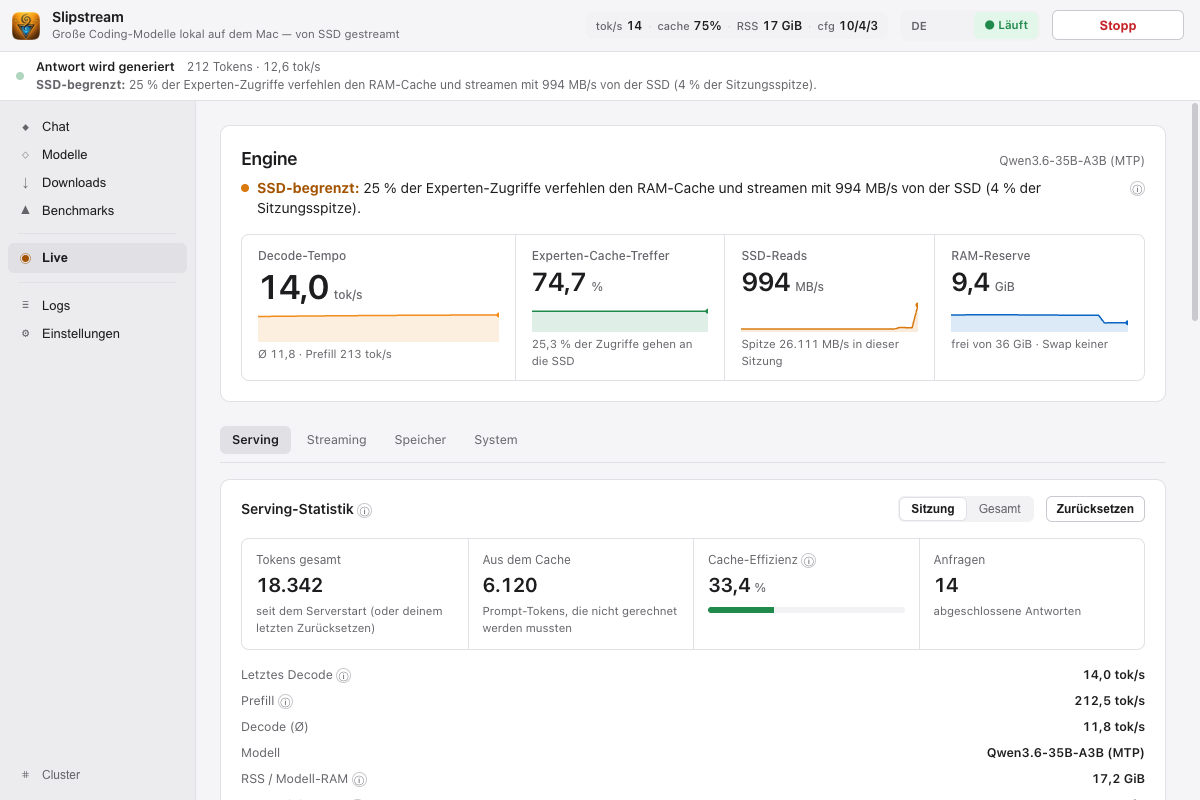
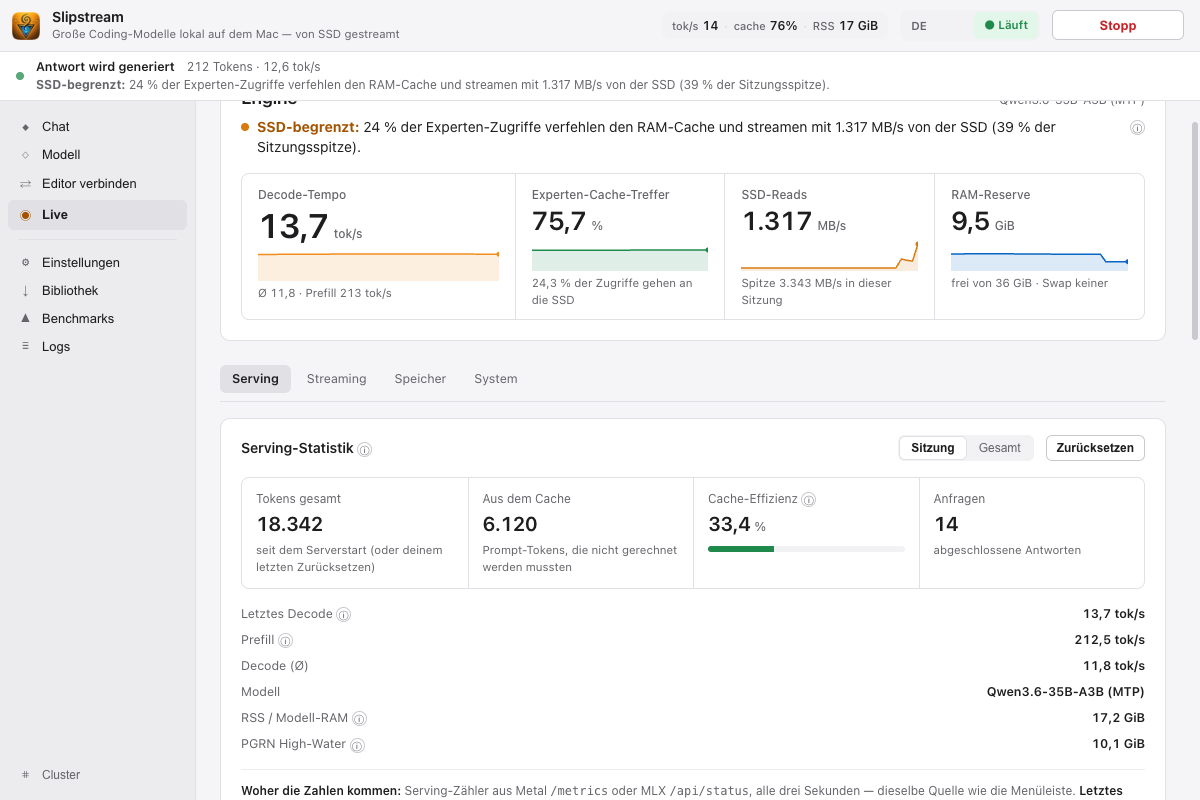
docs(app): first-run journey review with before/after walk screenshots
JOURNEY.md records the before walk (10 actions, 3 forced decisions, 2 dead
ends, duplicate controls, jargon list) and the after walk (4 clicks), plus
what moved where. Screenshots: journey/before-*, journey/after-{en,de}-*.

diff --git a/app/ui-review/JOURNEY.md b/app/ui-review/JOURNEY.md
@@ -1,0 +1,73 @@
+# First-run journey review
+
+**Goal of the user:** "I have a Mac. I want a fast local coding model running and connected to my editor."
+
+Walked with Playwright against `app/dist` and a stateful `__TAURI__` stub. The stub simulates a fresh
+Mac: nothing downloaded, download → convert → start all succeed. 1200×800, English. Screenshots are
+in `journey/before-*.png` and `journey/after-{en,de}-*.png`.
+
+## Before: 10 actions, 3 forced decisions, 2 dead ends
+
+| # | What the user does | Notes |
+|---|---|---|
+| 1 | Opens the app on **Chat**. Clicks step 1, "Choose model folder". | A folder picker opens before any model has been chosen. A default (`~/Modelle`) exists, but the user is still asked a file-system question first (**decision 1**). |
+| 2 | Confirms the folder, then lands on **Models**. | |
+| 3 | Picks a model from 13 entries such as "Qwen3.6-35B-A3B (MTP)" or "Laguna S 2.1 (118B-A8B, DFlash)". | **Decision 2.** The names carry parameter counts and speculative-decoding brands. |
+| 4 | Picks a quality such as "Q4_K_XL · fast (default)". | **Decision 3.** The quant names are jargon. |
+| — | Looks for a download button on Models. There is none. The badge says "not loaded" and the Start button reads "Model not ready" and is **disabled**. | **Dead end 1.** Nothing says where to go next. |
+| 5 | Finds the **Downloads** tab, which reads "Fetch the GGUF, then convert it into the streamable PGRN format". | |
+| 6 | Clicks **Download** and waits several minutes. | |
+| 7 | Comes back and clicks **Convert**, then waits again. | **Dead end 2.** Download does not continue into convert, so the user has to remember a second step whose name ("convert to PGRN") means nothing to them. |
+| 8 | Clicks **Start** (top right). | Cache, context and I/O stay at the HTML defaults (10 GiB / 40k / 4) unless the user finds "Apply best" in Settings. |
+| 9 | Opens **Settings** and scrolls about 1,400 px, past runtime check, backend, MLX, recommendation, cache, context, MTP, compact, grammar drafts, P2P and SSD streaming. | "Connect coding agent" is the tenth block on a 2,300 px page. |
+| 10 | Clicks "Patch in" (Kilo/OpenCode) or "Copy config". | The confirmation was hard-coded German ("gepatcht … neu starten") even in English. |
+
+**Tabs visited:** Chat → Models → Downloads → (topbar) → Settings.
+
+### Places where two controls do the same thing
+- Start in the top bar **and** "Start server" as journey step 2.
+- Models folder on Models, the GGUF folder and PGRN path under "Source & location", **and** path overrides in Settings.
+- Thinking in the chat composer **and** in Settings. Tools in the composer **and** "Enable tools" in Settings.
+- "Enable P2P" on Cluster **and** in Settings.
+- The "Models folder → Backend Auto → Start" hint in the top bar **and** again in Settings.
+- Expected speed on Models **and** the recommendation in Settings.
+- Three presets side by side (Apply best / Metal Peak / Good tokens) with no explanation of the difference.
+- A "Send" prompt on Benchmarks besides the Chat composer.
+
+### Terms a normal developer would not know
+GGUF, **PGRN**, "convert", **sidecar**, experts.pgrn, MLX / oMLX, Metal, "Backend Auto (hybrid)", MTP,
+DFlash, Q4_K_XL / UD-Q5_K_XL, A3B / A12B, **I/O threads**, Compact (slots), Grammar drafts, residency /
+mlock / keep-hot, L3 peer, MCP, KV, RSS, PGRN high-water, prefill / decode, "cfg 10/4/3" in the top bar,
+"cold_io", "io16".
+
+## After: 4 clicks, 0 forced decisions, no dead ends
+
+| # | What the user does | What the app does |
+|---|---|---|
+| 1 | Clicks step 1, "Set up a model", on Chat, or the top-right button, which now reads **"Set up model…"** and is never disabled. | Opens **Model** with the recommended model and quality already selected and focuses one button: **"Download & prepare · ~21 GiB"**. |
+| 2 | Clicks **Download & prepare**. | Downloads, then starts the one-time SSD-streaming preparation (convert) by itself once the file is complete. One progress area and one status line. The button reads **Cancel** while busy. |
+| — | Waits. No click needed. | The button turns into **Start**, and so does the top-right button. |
+| 3 | Clicks **Start**. | If the user has not tuned by hand, the cache, context and I/O recommendation computed for this Mac is applied automatically. Lookahead prefetch is on by default. The button turns into **"Connect your editor →"**. |
+| 4 | Clicks **Connect your editor →**, then clicks the editor's button ("Patch in" for Kilo/OpenCode, or "Copy config"). | **Connect editor** shows "The model is running. Your editor can connect now", the base URL, the model and the key. Step 3 on Chat gets a check mark. |
+
+Counting the editor's own button, that is 4–5 clicks on 2 screens (Model → Connect editor), down from 10 actions over 4 screens.
+
+## What moved where (nothing removed; every id and `invoke()` call kept)
+
+- **Nav:** Chat · **Model** · **Connect editor** (new) · Live, then a separator, then Settings · Library (was Downloads) · Benchmarks · Logs, with Cluster soft-hidden at the bottom.
+- **Model tab:** status, progress (`dlStatus`/`dlBar`/`dlNote`) and the resume row moved here from Downloads. A new `#prepareBtn` drives the whole flow by clicking the original `#dlBtn` / `#convBtn` / `#dlCancel`. Those buttons live on under "Manual steps". The models folder and the four path fields live under "Where models are stored".
+- **Library tab:** now only the list of installed models.
+- **Connect editor tab:** the agent card (Base URL / Model / API key / one-click patches) moved from Settings, with a running / not-running line on top. Codebase indexing is a collapsed "optional" block underneath.
+- **Settings:** shows only "Tuned for your Mac" (Apply best; applied automatically until you change something). Everything else is under one **Advanced engine settings** disclosure: backend, path overrides, tools, MLX options, Metal Peak / Good tokens presets, cache, context, MTP, thinking, compact, grammar drafts, SSD streaming (I/O threads, mirror, buffered reads, predictive prefetch, **lookahead**, **Turbo**). The runtime check is a collapsed "System check" that opens itself when something is not ready.
+- **Top bar:** the cryptic `cfg 10/4/3` readout is hidden (`#obsCfg` kept), and the hint reads "Set up a model, then Start".
+- **Engine options:**
+  - **Lookahead prefetch** is an on/off switch, **on by default**, and sends `pgrn_lookahead: 1` (0 when off). The copy uses the measured "lossless, 29–33 % faster decoding at 4–8 GiB cache".
+  - **Turbo (experimental)** is off by default, with a 0–0.10 slider and a warning that its quality cost is not measured yet.
+- **Copy:** "convert → PGRN" is now "prepare for SSD streaming", and statuses are plain sentences ("Not downloaded yet.", "Downloaded. One step left…", "Ready to start."). The agent confirmations are translated (EN/DE).
+
+## Still open
+
+- Choosing a model is still a list of 13 technical names. The default is sensible, but a short "recommended for your Mac" label (or hiding XL models on small machines) would help further.
+- "Thinking" and "Tools" still exist both in the chat composer and in Advanced settings; they share one state, so it is not confusing, just duplicated.
+- The recommendation text is recomputed from *current* free RAM, so while a model is running it shows a smaller cache than the one in use. The values Start uses are not affected, because auto-apply only runs while stopped.
+- Chinese and Spanish fall back to English for the new strings (the language menu already shows their coverage %).
